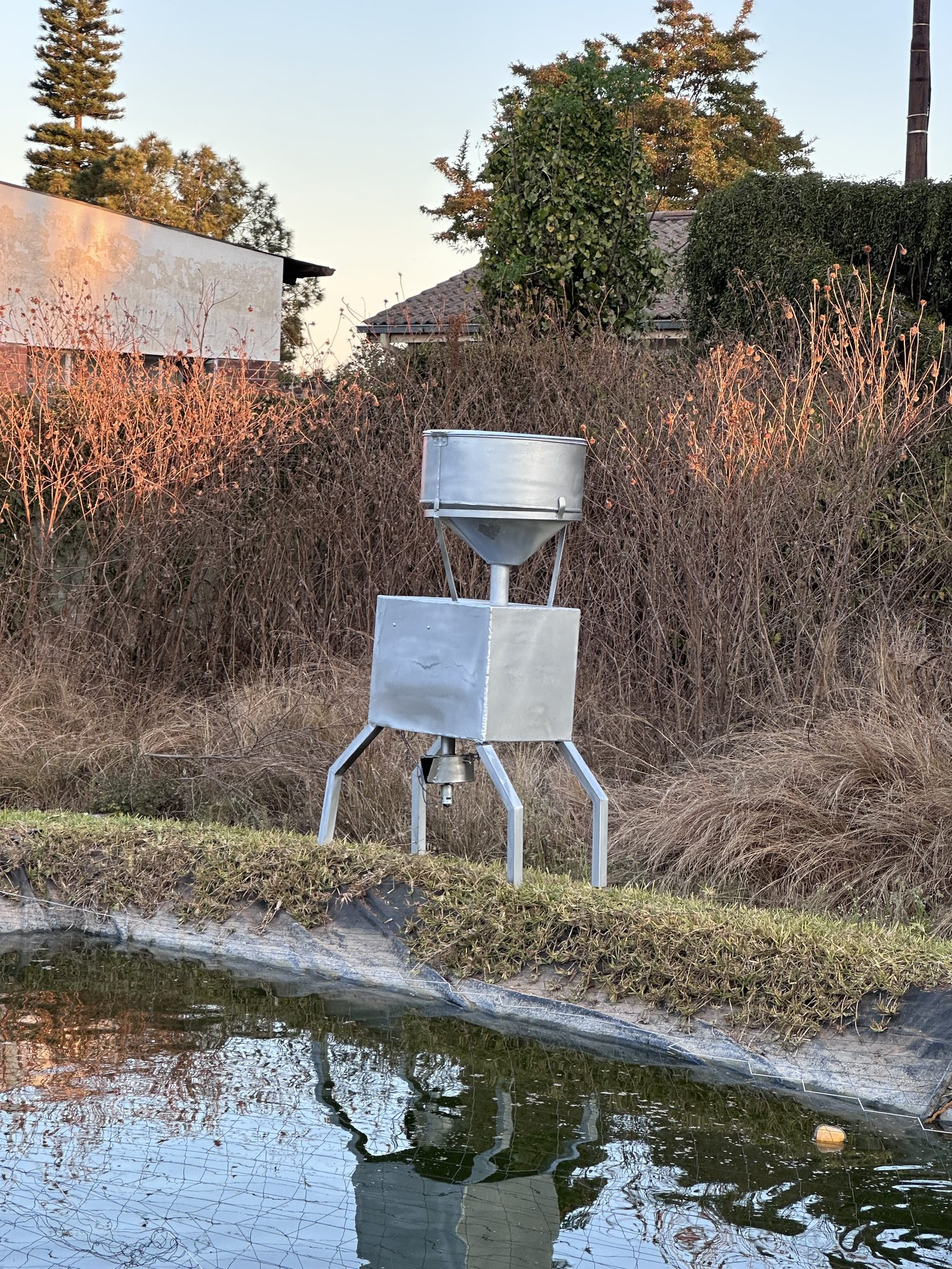
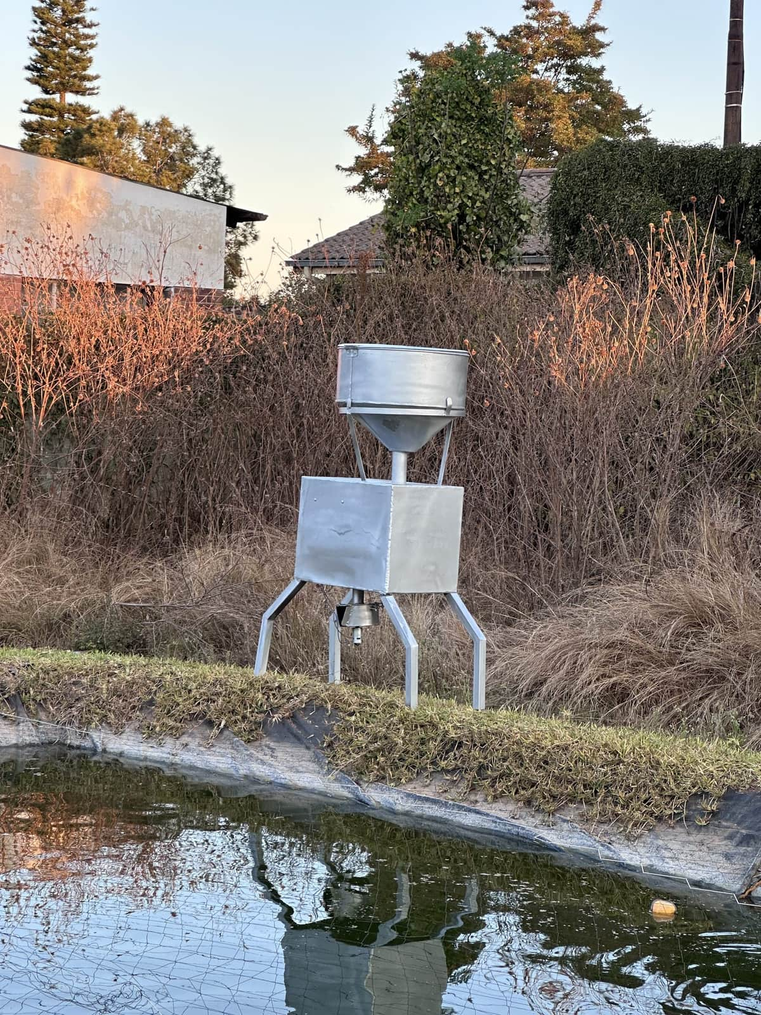
Add FishTech Feeder project card
- New project 02: FishTech Feeder (EMBEDDED · SOLAR, BUILDING badge),
  real photo from public/images/feeder via next/image with the gradient
  overlay treatment. No GitHub link, no price, no accuracy claims.
- Renumber Steadyhands 03, FishTech Consultancy 04, Portfolio 05 and
  keep sides alternating.
- Subheading now counts two edge instruments in active build.
- Recompress feeder-pond-sunset.jpg to 1200x1600, under 400 KB.

diff --git a/src/components/sections/Projects.tsx b/src/components/sections/Projects.tsx
@@ -1,6 +1,7 @@
 "use client";
 
 import { motion, useReducedMotion, type Variants } from "motion/react";
+import Image from "next/image";
 import {
   FlagshipProjectCard,
   type FlagshipProjectProps,
@@ -36,9 +37,39 @@ const FLAGSHIP: Omit<FlagshipProjectProps, "variants"> = {
   mockComponent: <FishTechSmartFeedMock />,
 };
 
+function FishTechFeederPhoto() {
+  return (
+    <div className="relative h-full w-full">
+      <Image
+        src="/images/feeder/feeder-pond-sunset.jpg"
+        alt="The FishTech Feeder, a welded steel hopper and dispenser on a tripod stand, beside a fish pond at dusk"
+        fill
+        sizes="(max-width: 1024px) 100vw, 680px"
+        className="object-cover object-[50%_45%]"
+      />
+      <span
+        aria-hidden
+        className="pointer-events-none absolute inset-0 bg-gradient-to-t from-black/60 via-transparent to-transparent mix-blend-multiply"
+      />
+    </div>
+  );
+}
+
 const ALTERNATING: Omit<AlternatingProjectProps, "variants">[] = [
   {
     number: "02",
+    category: "EMBEDDED · SOLAR",
+    title: "FishTech Feeder",
+    meta: "Working prototype · Exhibited at ZAS 2026",
+    description:
+      "Solar-powered automatic fish feeder in welded steel. An auger turns a counted number of revolutions to measure each dose, and a spinning disc spreads it over the pond. It works out the daily ration from fish size and water temperature with no internet, and can take a feed instruction from the Precision Feeding System over Wi-Fi. Two sizes, 10 kg and 25 kg, matched to standard feed bags.",
+    tags: ["ESP32", "Embedded", "Solar", "IoT", "Firmware"],
+    status: "building",
+    mockComponent: <FishTechFeederPhoto />,
+    side: "left",
+  },
+  {
+    number: "03",
     category: "PRODUCTION",
     title: "Steadyhands Catering",
     meta: "steadyhandscatering.com · BATA Club",
@@ -52,10 +83,10 @@ const ALTERNATING: Omit<AlternatingProjectProps, "variants">[] = [
       external: true,
     },
     mockComponent: <SteadyhandsMock />,
-    side: "left",
+    side: "right",
   },
   {
-    number: "03",
+    number: "04",
     category: "CLIENT WORK",
     title: "FishTech Consultancy",
     meta: "fishtech.co.zw · Lead-gen platform",
@@ -69,10 +100,10 @@ const ALTERNATING: Omit<AlternatingProjectProps, "variants">[] = [
       external: true,
     },
     mockComponent: <FishTechWebsiteMock />,
-    side: "right",
+    side: "left",
   },
   {
-    number: "04",
+    number: "05",
     category: "META",
     title: "This Portfolio",
     meta: "You're looking at it",
@@ -86,7 +117,7 @@ const ALTERNATING: Omit<AlternatingProjectProps, "variants">[] = [
       external: true,
     },
     mockComponent: <PortfolioMock />,
-    side: "left",
+    side: "right",
   },
 ];
 
@@ -153,8 +184,8 @@ export function Projects() {
             className="mt-5 mb-12 max-w-xl text-[15px] text-white/55 md:mb-16 md:max-w-2xl md:text-[16px]"
             style={{ lineHeight: 1.7 }}
           >
-            One flagship edge-AI instrument in active build, one live
-            transacting platform, one lead-gen site, and this portfolio itself.
+            Two edge instruments in active build, one live transacting
+            platform, one lead-gen site, and this portfolio itself.
           </motion.p>
 
           <FlagshipProjectCard {...FLAGSHIP} variants={itemVariants} />
